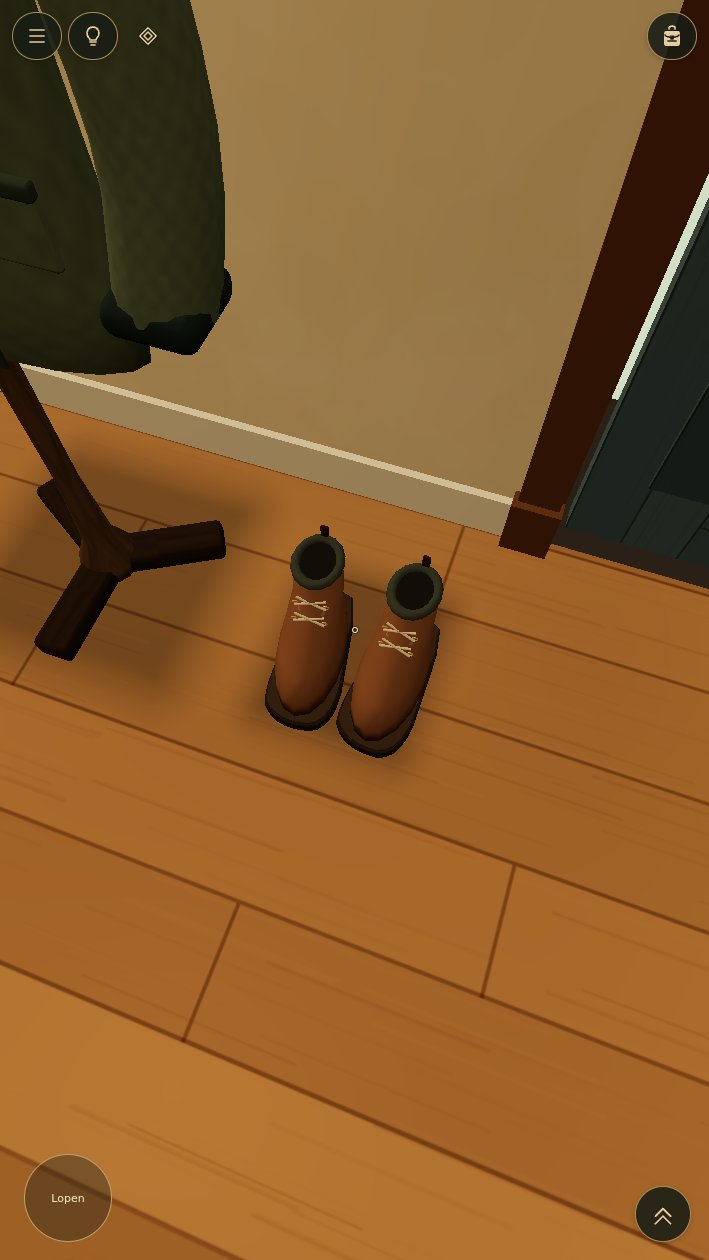
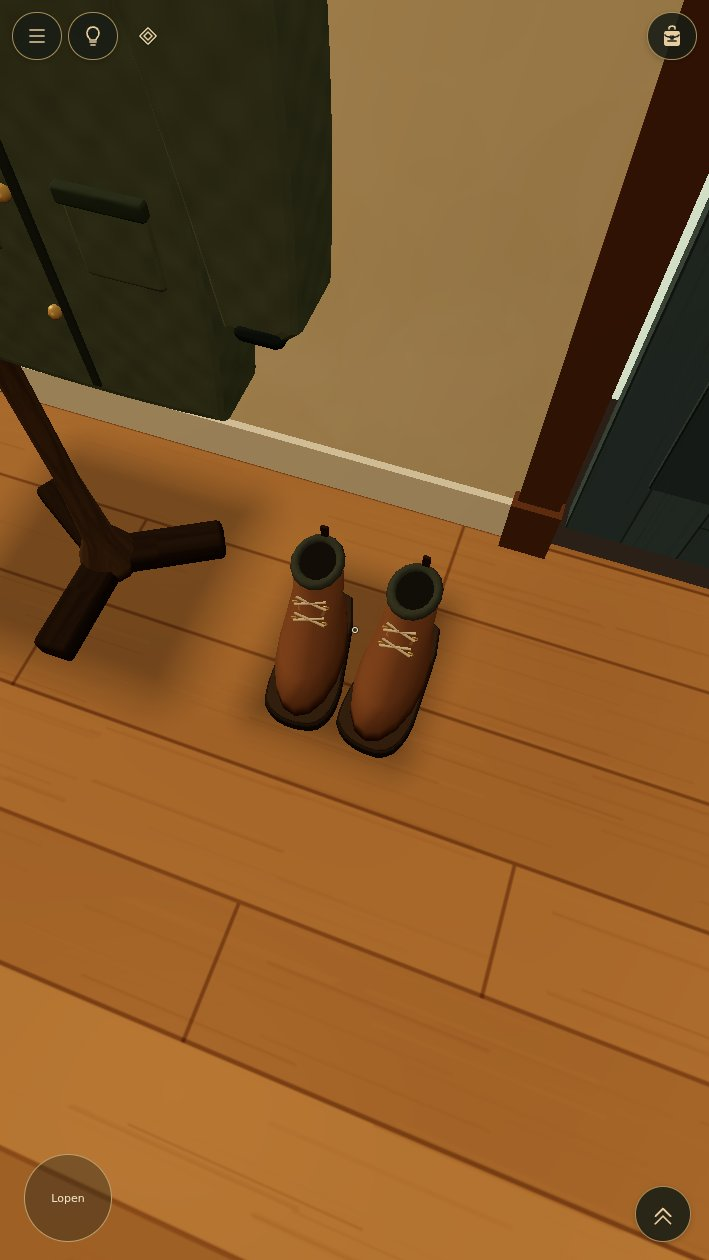
TUT-R02: separate coats and join sleeves into continuous shoulders

diff --git a/src/world/homeDressing.ts b/src/world/homeDressing.ts
@@ -53,37 +53,51 @@ export function homeCoatStand(c: Ctx) {
     const g = sb(0.095, 0.062, 0.34, 0.014);
     a.add(M.timber, dk, g, Math.sin(t) * 0.13, 0.031, Math.cos(t) * 0.13, { ry: t });
   }
-  for (const x of [-0.22, 0.22]) {
+  for (const x of [-0.36, 0.36]) {
     rail(a, M.timber, oak, [0, 1.68, 0], [x, 1.79, 0.055], 0.021);
     a.add(M.timber, oak, cg('homePegBall', () => new THREE.SphereGeometry(0.029, 12, 8)), x, 1.79, 0.055);
   }
   for (const z of [-0.19, 0.19]) rail(a, M.timber, oak, [0, 1.65, 0], [0, 1.74, z], 0.018);
-  // Both coats face the room, separated in depth so their collars and sleeve shapes stay visible.
-  coat(c, 7.455, 4.38, -Math.PI / 2, '#65705a', false);
-  coat(c, 7.455, 4.82, -Math.PI / 2, '#3e5666', true);
+  // 72 cm between hanger centres; each unified garment is <64 cm wide including bevels.
+  // Leave actual air between the coats rather than hiding interpenetration with draw order.
+  coat(c, 7.455, 4.24, -Math.PI / 2, '#65705a', false);
+  coat(c, 7.455, 4.96, -Math.PI / 2, '#3e5666', true);
   c.col.addCircle(7.55, 4.6, 0.3, 0, 2); // original footprint
 }
 
 function coat(c: Ctx, x: number, z: number, yaw: number, color: string, short: boolean) {
   const M = artMats(), a = new Asm(c.b, c.chunk, x, 0, z, yaw), hem = short ? 1.03 : 0.9;
-  a.add(M.upholstery, color, cg(`homeCoatBody${hem}`, () => loft([
-    [hem, 0.19, 0.065, 0], [hem + 0.13, 0.2, 0.071, 0.005], [1.32, 0.18, 0.075, 0],
-    [1.5, 0.214, 0.078, 0], [1.59, 0.205, 0.06, -0.01], [1.66, 0.067, 0.048, -0.01],
-  ])), 0, 0, 0);
+  // One bevelled garment contour includes torso, shoulders and both drooping sleeves.
+  // No overlapping sleeve tubes or separate shoulder caps: the shoulder is a continuous surface.
+  a.add(M.upholstery, color, cg(`homeCoatUnified${hem}`, () => {
+    const s = new THREE.Shape();
+    s.moveTo(-0.172, hem);
+    s.quadraticCurveTo(-0.195, hem + 0.16, -0.17, 1.33);
+    s.lineTo(-0.176, 1.4);
+    s.quadraticCurveTo(-0.205, 1.26, -0.228, 1.065);
+    s.quadraticCurveTo(-0.262, 1.048, -0.292, 1.075);
+    s.quadraticCurveTo(-0.305, 1.29, -0.29, 1.45);
+    s.quadraticCurveTo(-0.285, 1.535, -0.195, 1.592);
+    s.lineTo(-0.064, 1.65); s.quadraticCurveTo(0, 1.622, 0.064, 1.65);
+    s.lineTo(0.195, 1.592);
+    s.quadraticCurveTo(0.285, 1.535, 0.29, 1.45);
+    s.quadraticCurveTo(0.305, 1.29, 0.292, 1.075);
+    s.quadraticCurveTo(0.262, 1.048, 0.228, 1.065);
+    s.quadraticCurveTo(0.205, 1.26, 0.176, 1.4);
+    s.lineTo(0.17, 1.33); s.quadraticCurveTo(0.195, hem + 0.16, 0.172, hem);
+    s.quadraticCurveTo(0, hem - 0.012, -0.172, hem);
+    const g = new THREE.ExtrudeGeometry(s, { depth: 0.088, bevelEnabled: true, bevelSize: 0.018, bevelThickness: 0.018, bevelSegments: 3, curveSegments: 7 });
+    g.translate(0, 0, -0.044);
+    return projectUV(g, 1, 'y');
+  }), 0, 0, 0);
   for (const side of [-1, 1]) {
-    const curve = new THREE.CatmullRomCurve3([
-      new THREE.Vector3(side * 0.17, 1.55, 0), new THREE.Vector3(side * 0.255, 1.46, -0.015),
-      new THREE.Vector3(side * 0.3, 1.23, -0.025), new THREE.Vector3(side * 0.29, 1.07, -0.06),
-    ]);
-    const sleeve = cg(`homeCoatSleeve${side}`, () => new THREE.TubeGeometry(curve, 9, 0.062, 12, false));
-    a.add(M.upholstery, color, sleeve, 0, 0, 0);
-    a.add(M.upholstery, '#303d3c', sb(0.12, 0.045, 0.12, 0.016), side * 0.29, 1.075, 0.06);
-    a.add(M.upholstery, '#c1b49a', sb(0.05, 0.108, 0.021, 0.008), side * 0.055, 1.615, 0.049, { rz: side * -0.38 });
-    a.add(M.upholstery, color, sb(0.115, 0.10, 0.014, 0.007), side * 0.115, hem + 0.24, 0.074);
-    a.add(M.upholstery, '#455144', sb(0.12, 0.02, 0.016, 0.004), side * 0.115, hem + 0.287, 0.078);
+    a.add(M.upholstery, '#303d3c', sb(0.065, 0.028, 0.132, 0.012), side * 0.26, 1.057, 0);
+    a.add(M.upholstery, '#c1b49a', sb(0.05, 0.108, 0.021, 0.008), side * 0.055, 1.615, 0.076, { rz: side * -0.38 });
+    a.add(M.upholstery, color, sb(0.10, 0.10, 0.014, 0.007), side * 0.106, hem + 0.24, 0.062);
+    a.add(M.upholstery, '#455144', sb(0.105, 0.02, 0.016, 0.004), side * 0.106, hem + 0.287, 0.067);
   }
-  a.add(M.paint, '#38413a', bx(0.012, 1.58 - hem, 0.006), 0, (1.58 + hem) / 2, 0.078);
-  for (const y of [hem + 0.12, hem + 0.27, hem + 0.42]) a.add(M.brass, brass, cg('homeCoatButton', () => new THREE.SphereGeometry(0.009, 8, 6)), 0.015, y, 0.082);
+  a.add(M.paint, '#38413a', bx(0.012, 1.58 - hem, 0.006), 0, (1.58 + hem) / 2, 0.063);
+  for (const y of [hem + 0.12, hem + 0.27, hem + 0.42]) a.add(M.brass, brass, cg('homeCoatButton', () => new THREE.SphereGeometry(0.009, 8, 6)), 0.015, y, 0.068);
   // Hanger sits inside the shoulder line; hook reaches the stand's corresponding peg.
   rail(a, M.timber, '#b49368', [-0.17, 1.59, -0.04], [0, 1.69, -0.04], 0.009);
   rail(a, M.timber, '#b49368', [0, 1.69, -0.04], [0.17, 1.59, -0.04], 0.009);

diff --git a/docs/development/workstreams/TUT-R02.md b/docs/development/workstreams/TUT-R02.md
@@ -3,7 +3,7 @@
 - Branch: `tut-r02-home-scene`
 - Base: current production `5ca306da6a32f33b4c93c90ace3556e2787c67d4` (TUT-R01 + PB01 merged).
 - Scope: the remaining weak asset families throughout the home/tutorial scene, with the owner-supplied entrance screenshot as the primary defect evidence.
-- State: IMPLEMENTED AND VALIDATED — prepared for draft PR and owner visual review.
+- State: IMPLEMENTED AND VALIDATED — draft PR #20; coat correction ready for owner visual review.
 - Gate: owner visual review before a new production merge/deployment.
 
 ## Current implementation
@@ -33,35 +33,35 @@
 
 ## Final validation and render comparison
 
-- Final typecheck and production build passed (existing large-chunk warning); 275 existing unit tests passed on the final implementation.
+- Final typecheck and production build passed (existing large-chunk warning); 275 existing unit tests passed on the complete scene implementation before the coat-feedback revision.
 - Eight final browser checks passed after all geometry revisions: wall-art clearance; original calendar memory; lamp toggling; all four pickups; candle lighting/extinguishing; key-gated departure; drawer open/close/reopen and key pickup; exit to estate. No page or HTTP errors.
-- All 16 final captures inspected across portrait/landscape; corrected rectangular soles and flat shade presentation after the first inspection.
-- Eight fixed cameras × two viewport shapes, 709×1260 and 1260×709 at DPR 1, same lighting, quality and item state. Baseline completed before code edits.
+- Original 16 scene captures inspected across portrait/landscape. Coat-feedback revision adds four front/shoulder detail captures; front portrait and angled landscape inspected after the final collar correction.
+- Eight matched baseline cameras plus two new coat-detail cameras × two viewport shapes, 709×1260 and 1260×709 at DPR 1, same lighting, quality and item state. Baseline completed before code edits.
 - Reproduce with `node scripts/tut-r02-review.mjs before|after`; use `REVIEW_ROOT` to point at the baseline checkout.
 - Before/after evidence: [review index](tut-r02/README.md).
 
 | View | Calls before → after | Triangles before → after |
 | --- | ---: | ---: |
-| table-portrait | 23 → 27 | 15,607 → 26,607 |
-| window-portrait | 11 → 12 | 8,346 → 18,504 |
-| room-portrait | 29 → 32 | 16,199 → 27,213 |
-| entrance-portrait | 11 → 13 | 8,402 → 20,128 |
-| boots-portrait | 11 → 13 | 8,402 → 20,128 |
-| calendar-portrait | 10 → 13 | 8,354 → 19,306 |
-| lamp-portrait | 15 → 17 | 11,158 → 20,840 |
-| drawer-portrait | 15 → 15 | 11,210 → 19,112 |
-| table-landscape | 24 → 28 | 15,679 → 27,143 |
-| window-landscape | 12 → 13 | 12,308 → 22,466 |
-| room-landscape | 30 → 35 | 20,161 → 32,231 |
-| entrance-landscape | 12 → 15 | 8,426 → 20,346 |
-| boots-landscape | 11 → 13 | 8,402 → 20,128 |
-| calendar-landscape | 10 → 14 | 8,354 → 20,874 |
-| lamp-landscape | 17 → 20 | 11,242 → 21,548 |
-| drawer-landscape | 18 → 20 | 11,282 → 20,964 |
+| table-portrait | 23 → 27 | 15,607 → 28,167 |
+| window-portrait | 11 → 12 | 8,346 → 20,064 |
+| room-portrait | 29 → 32 | 16,199 → 28,773 |
+| entrance-portrait | 11 → 13 | 8,402 → 21,688 |
+| boots-portrait | 11 → 13 | 8,402 → 21,688 |
+| calendar-portrait | 10 → 14 | 8,354 → 22,434 |
+| lamp-portrait | 15 → 17 | 11,158 → 22,400 |
+| drawer-portrait | 15 → 15 | 11,210 → 20,672 |
+| table-landscape | 24 → 28 | 15,679 → 28,703 |
+| window-landscape | 12 → 13 | 12,308 → 24,026 |
+| room-landscape | 30 → 35 | 20,161 → 33,791 |
+| entrance-landscape | 12 → 15 | 8,426 → 21,906 |
+| boots-landscape | 11 → 13 | 8,402 → 21,688 |
+| calendar-landscape | 10 → 14 | 8,354 → 22,434 |
+| lamp-landscape | 17 → 20 | 11,242 → 23,108 |
+| drawer-landscape | 18 → 20 | 11,282 → 22,524 |
 
-Max revised view: 35 calls / 32,231 triangles. Max matched increase: +5 calls / +12,520 triangles. This home slice is comfortably under the existing call guide and current PB01 750k provisional ceiling; that does not establish physical-phone performance. No global budget or baseline allowance was changed.
+Max revised view: 35 calls / 33,791 triangles. Max matched increase: +5 calls / +14,080 triangles. This home slice is comfortably under the existing call guide and current PB01 750k provisional ceiling; that does not establish physical-phone performance. No global budget or baseline allowance was changed.
 
-Revised JS gzip: 430.84 KB; previously recorded R01 build: 427.33 KB. The approximately 3.51 KB difference is a cross-build reference, not a new paired baseline build. One new 384×480 runtime canvas calendar texture; no externally downloaded asset, imagegen replacement or new dependency. Most new geometry is merged into the existing home/shared-material batches; contact occlusion is one instanced layer.
+Revised JS gzip: 430.90 KB; previously recorded R01 build: 427.33 KB. The approximately 3.57 KB difference is a cross-build reference, not a new paired baseline build. One new 384×480 runtime canvas calendar texture; no externally downloaded asset, imagegen replacement or new dependency. Most new geometry is merged into the existing home/shared-material batches; contact occlusion is one instanced layer.
 
 ## Isolation and contracts
 
@@ -73,10 +73,19 @@ Rendering uses Chromium headless shell/SwiftShader. Captures/counters prove rend
 
 ## Next safe action
 
-Publish this isolated featurebranch and draft PR after the latest production/parallel check. The owner reviews the concrete rendered result before a new production merge/deployment. Preserve the first local checkpoint dec33d3 and this final follow-up; do not restart on the merged R01 branch.
+Update existing isolated featurebranch and draft PR #20 with the coat-feedback correction. The owner reviews the concrete rendered result before a new production merge/deployment. Preserve the first local checkpoint dec33d3 and this final follow-up; do not restart on the merged R01 branch.
 
 ## Pre-publication integration check
 
 Production reverified at `5ca306d`; this branch contains that integrated TUT-R01/PB01 baseline. Current SKY-C01 `3d978223`, VEG-R01 `5a6df261` and GEO-R01 `142bd7c7` have zero changed-file overlap with this workstream. The previous VFC/VCP branches have no home file changes in their inspected workstreams. No other branch/checkouts modified. Current inspected refs may change later; repeat integration checks before a future approved merge.
 
 CLI Git push credentials were unavailable in the preceding R01 work. Publish the equivalent final tree through the authenticated GitHub connector, verify the tree against local HEAD and record the remote checkpoint in the draft PR. No forced ref update or production write is part of this task.
+
+
+## Owner coat-feedback correction — 2026-10-14
+
+The first revision placed the hangers too close together and built sleeves as separate tube volumes. The revised hangers are 72 cm apart with a visible gap between garments. Each coat now uses one bevelled continuous contour for body, shoulders and drooping sleeves; collars, cuffs and pockets remain sewn-detail volumes. The shoulders no longer have intersecting sleeve caps.
+
+All eight browser interaction checks passed again with no page/HTTP errors; final typecheck/build passed. The evidence now contains 20 captures (16 matched scene views plus four new coat detail views). Rendering max is 35 calls / 33,791 triangles. Unit tests from the complete-scene checkpoint remain the prior validation, not a claimed rerun for this visual correction.
+
+Production advanced independently to SKY-C01 merge 5af9779. Its changes have no home-dressing file overlap; it is preserved. This correction updates only TUT-R02, and does not deploy. Previous durable remote checkpoint: 9b253806 (tree 925d755a). Next action: owner visual review of PR #20 before any production merge/deployment.

diff --git a/docs/development/workstreams/tut-r02/README.md b/docs/development/workstreams/tut-r02/README.md
@@ -12,6 +12,15 @@ These images are not physical-phone FPS validation. [Scope, asset-by-asset decis
 | --- | --- |
 | ![Before entrance](before/entrance-portrait.jpg) | ![After entrance](after/entrance-portrait.jpg) |
 
+## Correctie na feedback op de jassen
+
+Meer ruimte tussen de kledingstukken; romp, schouders en mouwen zijn één doorlopende vorm.
+Extra detailcamera's, zonder bijbehorende baseline-opname.
+
+![Jassen recht van voren](after/coat-front-portrait.jpg)
+
+![Doorlopende schoudervorm onder een hoek](after/coat-shoulder-landscape.jpg)
+
 ## Schoenvorm
 
 | Before | After |
